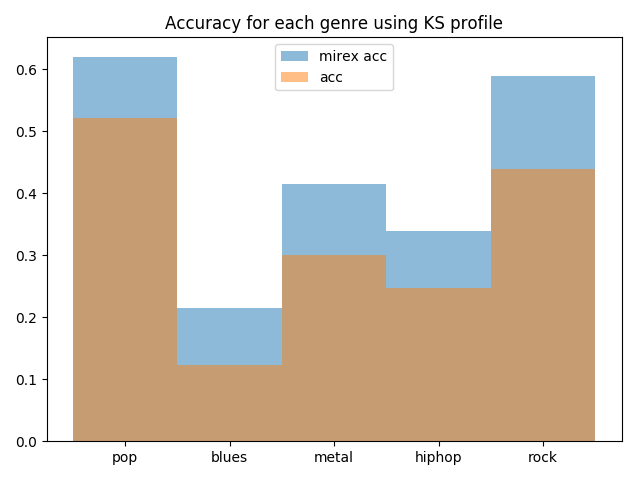
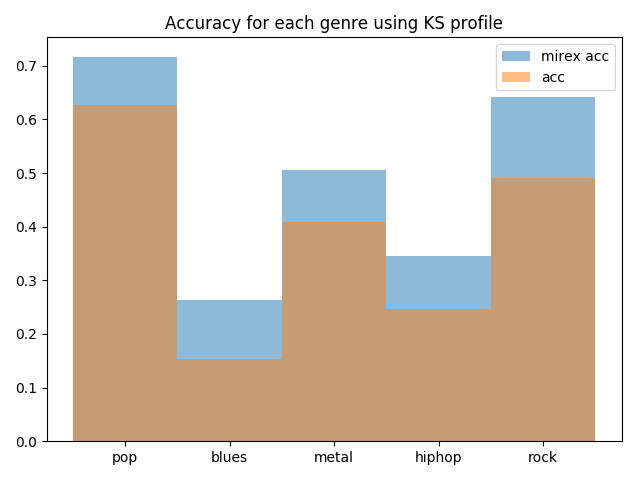
finish the key finding algorithm, and test that local finding can have accuracy nearly 60%.

diff --git a/local_key_detection.py b/local_key_detection.py
@@ -1,9 +1,9 @@
 from librosa import load
-from librosa.feature import chroma_stft, chroma_cens, chroma_cqt
+from librosa.feature import chroma_stft, chroma_cens
 from key_finding_baseline import mirex_evaluate
 from ks_key_finding import template
 from scipy.stats import pearsonr
-from scipy.signal import medfilt
+from scipy.signal import medfilt, decimate, fftconvolve
 from prettytable import PrettyTable
 import numpy as np
 import os
@@ -27,46 +27,46 @@ for k, i in zip(key2, range(24)):
 if __name__ == '__main__':
     file_names = [".".join(f.split(".")[:-1]) for f in os.listdir(data_dir) if f[-4:] == '.wav']
 
-    divider = 21
-    prob = np.zeros(24)
-    med_num = 20
-    mean_filt = np.ones(med_num)/med_num
+    d = 10
+    g = 100
+    w = 641
+    mean_filt = np.ones(w) / w
     overall_acc = []
 
+    sym2num = np.vectorize(inv_key_map.get)
+    evaluate_vec = np.vectorize(mirex_evaluate, otypes=[float])
+
     for f in file_names:
-    #f = '22'
         label = np.loadtxt(os.path.join(data_dir, ref_prefix + f + '.txt'), dtype='str')
-        label = label[:, 1]
+        t = sym2num(label[:, 1])
 
         data, sr = load(os.path.join(data_dir, f + '.wav'), sr=None)
-        hop_size = int(sr / divider)
-        window_size = 4096
+        hop_size = int(sr / d)
+        window_size = hop_size * 2
 
-        chroma_c = chroma_stft(y=data, sr=sr, hop_length=hop_size, n_fft=window_size, base_c=False)
+        chroma_a = chroma_stft(y=data, sr=sr, hop_length=hop_size, n_fft=window_size, base_c=False)
+        chroma_a = np.apply_along_axis(fftconvolve, 1, chroma_a, mean_filt, 'same')
 
-        if chroma_c.shape[1] > len(label) * divider:
-            chroma_c = chroma_c[:, :len(label) * divider]
-        elif chroma_c.shape[1] < len(label) * divider:
-            chroma_c = np.column_stack((chroma_c, np.zeros((12, len(label) * divider - chroma_c.shape[1]))))
+        if chroma_a.shape[1] > len(label) * d:
+            chroma_a = chroma_a[:, :len(label) * d]
+        elif chroma_a.shape[1] < len(label) * d:
+            chroma_a = np.column_stack((chroma_a, np.zeros((12, len(label) * d - chroma_a.shape[1]))))
 
-        chroma_c = np.mean(chroma_c.reshape((12, -1, divider)), axis=2)
-        chroma_c = np.apply_along_axis(np.convolve, 1, chroma_c, mean_filt, 'same')
+        # chroma_a = decimate(chroma_a[:, int(d/2):], d, axis=1)
+        chroma_a = chroma_a.reshape(12, -1, d).mean(axis=2)
+        chroma_a = np.log(1 + g * chroma_a)
 
-        #chroma_a = np.roll(chroma_c, -3, axis=0)
+        chroma_a = np.apply_along_axis(fftconvolve, 1, chroma_a, np.ones(w // (2 * d)) / (w // (2 * d)), 'same')
 
-        y = []
-        for i in range(chroma_c.shape[1]):
-            for j in range(24):
-                prob[j] = pearsonr(chroma_c[:, i], template[j])[0]
-            y.append(np.argmax(prob))
+        prob = np.zeros((template.shape[0], chroma_a.shape[1]))
+        for n in range(chroma_a.shape[1]):
+            prob[:, n] = np.apply_along_axis(pearsonr, 1, template, chroma_a[:, n])[:, 0]
 
-        y = medfilt(y, 23)
+        y = np.argmax(prob, axis=0)
+        y = medfilt(y, w // (4 * d) + 1)
+        acc = evaluate_vec(y, t).tolist()
 
-        acc = []
-        for i, (p, t) in enumerate(zip(y, label)):
-            acc.append(mirex_evaluate(p, inv_key_map[t]))
-
-        print(f + '.wav', format(acc.count(1)/len(acc), '.6f'), format(np.mean(acc), '.6f'))
+        print(f + '.wav', format(acc.count(1) / len(acc), '.6f'), format(np.mean(acc), '.6f'))
         overall_acc += acc
 
-    print(format(overall_acc.count(1)/len(overall_acc), '.6f'), format(np.mean(overall_acc), '.6f'))
+    print(format(overall_acc.count(1) / len(overall_acc), '.6f'), format(np.mean(overall_acc), '.6f'))

diff --git a/key_finding_baseline.py b/key_finding_baseline.py
@@ -41,17 +41,17 @@ def simple_evaluate(y, t):
 
 
 def mirex_evaluate(y, t):
-    minory = y // 12
-    minort = t // 12
+    y_is_minor = y // 12
+    t_is_minor = t // 12
     if y == t:
         return 1
-    elif minort == minory and (t + 7) % 12 == y % 12:  # perfect fifth
+    elif t_is_minor == y_is_minor and (t + 7) % 12 == y % 12:  # perfect fifth
         return 0.5
-    elif minory > minort and (y + 3) % 12 == t % 12:  # relative minor
+    elif y_is_minor > t_is_minor and (y + 3) % 12 == t % 12:  # relative minor
         return 0.3
-    elif minory < minort and (t + 3) % 12 == y % 12:  # relative major
+    elif y_is_minor < t_is_minor and (t + 3) % 12 == y % 12:  # relative major
         return 0.3
-    elif minort != minory and t % 12 == y % 12:  # parallel
+    elif t_is_minor != y_is_minor and t % 12 == y % 12:  # parallel
         return 0.2
     else:
         # print("Wrong: ", key_map[t], "is not", key_map[y])
@@ -63,8 +63,8 @@ if __name__ == '__main__':
     overall_acc = []
     genre_acc = []
 
-    table = PrettyTable(["Genre", "Num of Same", "Num of Perfect Fifth", "Num of Relative Minor/Major",
-                         "Num of Parallel Minor/Major", "Accuracy", "Mirex Accuracy"])
+    table = PrettyTable(["Genre", "Same", "Perfect Fifth", "Relative Minor/Major",
+                         "Parallel Minor/Major", "Accuracy", "MIREX Accuracy"])
 
     for genre in test_genres:
         adir = os.path.join(audio_dir, genre)
@@ -82,9 +82,9 @@ if __name__ == '__main__':
                     continue
                 count += 1
                 data, sr = load(os.path.join(adir, f + audio_ext), sr=None)
-                chroma = chroma_stft(y=data, sr=sr, n_fft=4096, base_c=False, norm=None)
+                chroma = chroma_stft(y=data, sr=sr, n_fft=4096, base_c=False)
+                chroma = np.mean(chroma, axis=1)
                 chroma = np.log(1 + g * chroma)
-                chroma = np.sum(chroma, axis=1)
                 tonic = np.argmax(chroma)
 
                 corr_major = pearsonr(chroma, template[tonic])[0]
@@ -110,8 +110,8 @@ if __name__ == '__main__':
     print(table)
     x = np.arange(len(test_genres))
     genre_acc = np.array(genre_acc)
-    plt.bar(x, genre_acc[:, 1], 1, label="mirex acc", alpha=0.5)
-    plt.bar(x, genre_acc[:, 0], 1, label="acc", alpha=0.5)
+    plt.bar(x, genre_acc[:, 1], 1, label="mirex acc", alpha=0.6)
+    plt.bar(x, genre_acc[:, 0], 1, label="acc", alpha=0.6)
     plt.xticks(x, test_genres)
     plt.title("Accuracy for each genre")
     plt.legend()

diff --git a/ks_key_finding.py b/ks_key_finding.py
@@ -1,6 +1,6 @@
 from librosa import load
 from librosa.feature import chroma_stft
-from key_finding_baseline import audio_dir, audio_ext, label_dir, label_ext, test_genres,  mirex_evaluate
+from key_finding_baseline import audio_dir, audio_ext, label_dir, label_ext, test_genres, mirex_evaluate
 from scipy.stats import pearsonr
 from prettytable import PrettyTable
 import numpy as np
@@ -9,6 +9,8 @@ import matplotlib.pyplot as plt
 
 major_template = np.array([[6.35, 2.23, 3.48, 2.33, 4.38, 4.09, 2.52, 5.19, 2.39, 3.66, 2.29, 2.88]])
 minor_template = np.array([[6.33, 2.68, 3.52, 5.38, 2.6, 3.53, 2.54, 4.75, 3.98, 2.69, 3.34, 3.17]])
+major_template /= np.sqrt((major_template**2).sum())
+minor_template /= np.sqrt((minor_template**2).sum())
 
 template = major_template
 for i in range(11):
@@ -17,12 +19,12 @@ for i in range(12):
     template = np.append(template, np.roll(minor_template, i), axis=0)
 
 if __name__ == '__main__':
-    g = 1000
+    g = 10
     overall_acc = []
     genre_acc = []
-    prob = np.zeros(24)
-    table = PrettyTable(["Genre", "Num of Same", "Num of Perfect Fifth", "Num of Relative Minor/Major",
-                         "Num of Parallel Minor/Major", "Accuracy", "Mirex Accuracy"])
+
+    table = PrettyTable(["Genre", "Same", "Perfect Fifth", "Relative Minor/Major",
+                         "Parallel Minor/Major", "Accuracy", "MIREX Accuracy"])
 
     for genre in test_genres:
         adir = os.path.join(audio_dir, genre)
@@ -40,11 +42,11 @@ if __name__ == '__main__':
                     continue
                 count += 1
                 data, sr = load(os.path.join(adir, f + audio_ext), sr=None)
-                chroma = chroma_stft(y=data, sr=sr, n_fft=4096, base_c=False, norm=None)
+                chroma = chroma_stft(y=data, sr=sr, n_fft=4096, base_c=False)
+                chroma = np.mean(chroma, axis=1)
                 chroma = np.log(1 + g * chroma)
-                chroma = np.sum(chroma, axis=1)
-                for i in range(24):
-                    prob[i] = pearsonr(chroma, template[i])[0]
+
+                prob = np.apply_along_axis(pearsonr, 1, template, chroma)[:, 0]
                 y = np.argmax(prob)
 
                 acc.append(mirex_evaluate(y, t))

diff --git a/key_finding_new_method.py b/key_finding_new_method.py
@@ -8,8 +8,8 @@ import numpy as np
 import os
 import matplotlib.pyplot as plt
 
-blues_major_template = np.array([[1, 0, 1, 1, 1, 0, 0, 1, 0, 1, 0, 0]])/np.sqrt(6)
-blues_minor_template = np.array([[1, 0, 0, 1, 0, 1, 1, 1, 0, 0, 1, 0]])/np.sqrt(6)
+blues_major_template = np.array([[1, 0, 1, 1, 1, 0, 0, 1, 0, 1, 0, 0]]) / np.sqrt(6)
+blues_minor_template = np.array([[1, 0, 0, 1, 0, 1, 1, 1, 0, 0, 1, 0]]) / np.sqrt(6)
 for i in range(12):
     template = np.append(template, np.roll(blues_major_template, i), axis=0)
 for i in range(12):
@@ -19,9 +19,9 @@ if __name__ == '__main__':
     g = 1000
     overall_acc = []
     genre_acc = []
-    prob = np.zeros(48)
-    table = PrettyTable(["Genre", "Num of Same", "Num of Perfect Fifth", "Num of Relative Minor/Major",
-                         "Num of Parallel Minor/Major", "Accuracy", "Mirex Accuracy"])
+
+    table = PrettyTable(["Genre", "Same", "Perfect Fifth", "Relative Minor/Major",
+                         "Parallel Minor/Major", "Accuracy", "MIREX Accuracy"])
     for genre in test_genres:
         adir = os.path.join(audio_dir, genre)
         ldir = os.path.join(label_dir, genre)
@@ -37,11 +37,11 @@ if __name__ == '__main__':
                     continue
                 count += 1
                 data, sr = load(os.path.join(adir, f + audio_ext), sr=None)
-                chroma = chroma_stft(y=data, sr=sr, n_fft=4096, base_c=False, norm=None)
+                chroma = chroma_stft(y=data, sr=sr, n_fft=4096, base_c=False)
+                chroma = np.mean(chroma, axis=1)
                 chroma = np.log(1 + g * chroma)
-                chroma = np.sum(chroma, axis=1)
-                for i in range(48):
-                    prob[i] = pearsonr(chroma, template[i])[0]
+
+                prob = np.apply_along_axis(pearsonr, 1, template, chroma)[:, 0]
                 weight = np.tile(chroma, 4)
                 y = np.argmax(prob * weight) % 24
 
